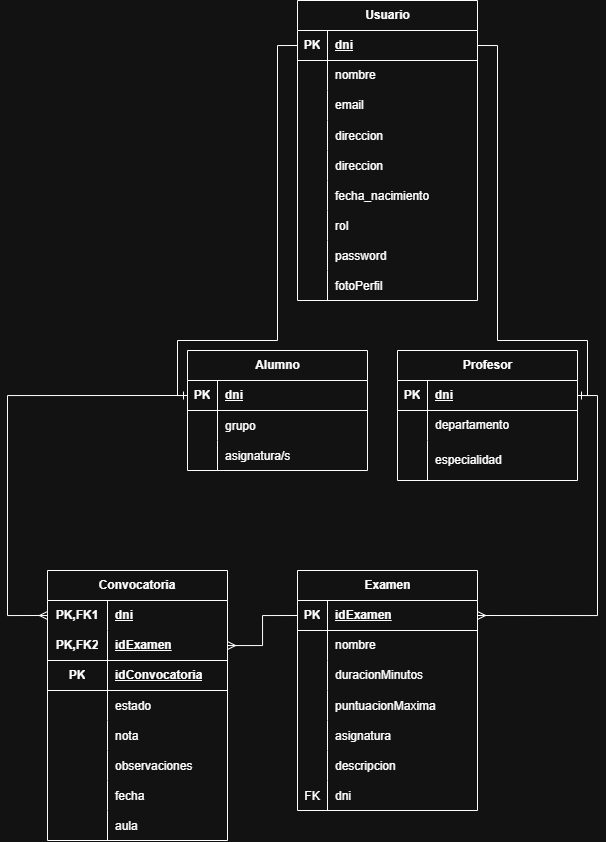
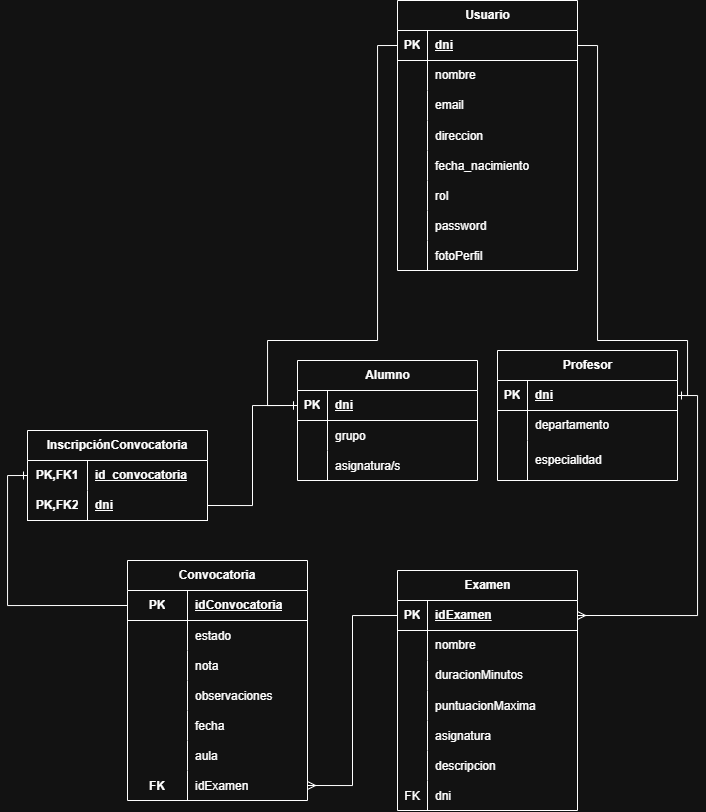
feat (login): desarrollo de la plantilla HTML del login

diff --git a/ExamTrack/src/main/resources/templates/login.html b/ExamTrack/src/main/resources/templates/login.html
@@ -18,67 +18,74 @@
     <link rel="stylesheet" href="https://cdn.jsdelivr.net/npm/bootstrap-icons@1.13.1/font/bootstrap-icons.min.css">
 
     <style>
-        #rojos {
-            background-color: rgb(178, 58, 58);
+        .background {
+            background-image: url("../static/image/background.webp");
+            background-size: cover;
+            background-position: center;
         }
 
-        #banana {
-            background-color: rgb(238, 238, 238);
-            border-top-left-radius: 20%;
-            border-bottom-left-radius: 20%;
+        .bloqueIzqLogin {
+            background-color: rgb(210, 92, 92);
         }
     </style>
+
+
+
 
 </head>
 
 <body>
+    <main class="container-fluid background">
+        <div class="vh-100 w-100 d-flex justify-content-center align-items-center">
+            <div class="w-75 h-75 d-flex rounded-5 overflow-hidden shadow">
+                <div class="container-fluid p-0">
+                    <div class="row h-100 m-0">
 
-    <div class="container-fluid m-0" id="rojos">
-        <div class="d-flex flex-row  row min-vh-100">
-            <div class="col-7 col-xxl-7 col-xl-6 col-md-4 col-sm-4">
-                <h1>Hola</h1>
-            </div>
-
-            <div class="col-5 col-xxl-5 col-xl-6 col-md-8 col-sm-8 z-3 " id="banana">
-                <div class="container">
-                    <div class="d-flex flex-column m-5">
-                        <div class="pt-5 ps-5">
-                            <h1>Login</h1>
+                        <div
+                            class="col-xxl-6 col-md-0 d-flex opacity-75 flex-column justify-content-center px-5  bloqueIzqLogin">
+                            <h2 class="display-3 display-md-4 opacity-100 text-light ">Gestiona tus convocatorias</h2>
+                            <p class="pe-xxl-5 pe-md-2 text-light">ExamTrack nace de la idea de gestionar convocatorias de examenes
+                                de la forma mas
+                                profesional y optimizada posible, con accesibilidad a todos los publicos.</p>
                         </div>
 
-                        <div class="pt-2 ps-5">
-                            <p>¡Bienvenido a Examtrack! Porfavor loguease con su cuenta corporativa. </p>
-                        </div>
+                        <div class="col-xxl-6 col-md-12 bg-white">
+                            <div class="container-fluid h-100">
+                                <div class="row d-flex flex-column h-100">
 
-                        <div class="pt-4 ps-5">
-                            <div>
-                                <form>
-                                    <div class="form-group pb-3 w-75 ">
-                                        <label for="formGroupExampleInput ">Correo Electronico</label>
-                                        <input type="email" class="form-control" id="formGroupExampleInput"
-                                            placeholder="[email redacted]">
-                                    </div>
-                                    <div class="form-group pb-3 w-75">
-                                        <label for="formGroupExampleInput2">Contraseña</label>
-                                        <input type="password" class="form-control" id="formGroupExampleInput2"
-                                            placeholder="Introduce aquí tu contraseña">
+                                    <div class="w-100 d-flex justify-content-center pt-5">
+                                        <h1 class="fw-bold">examTrack</h1>
                                     </div>
 
-                                    <div class="mb-3 form-check">
-                                        <input type="checkbox" class="form-check-input" id="exampleCheck1">
-                                        <label class="form-check-label" for="exampleCheck1">Recuerdame</label>
-                                    </div>
-                                    <button type="submit" class="btn btn-redPrimary w-75">Iniciar Sesión</button>
-                                </form>
+                                    <div
+                                        class="w-100 flex-grow-1 d-flex flex-column justify-content-center align-items-center pb-5">
+                                        <form class="w-75 d-flex flex-column align-items-center pb-5">
+                                            <div class="mb-3 w-75 py-3">
+                                                <label for="exampleInputEmail1"
+                                                    class="form-label col-form-label-lg">Correo Electronico</label>
+                                                <input type="email" class="form-control" id="exampleInputEmail1"
+                                                    aria-describedby="emailHelp">
 
+                                            </div>
+                                            <div class="mb-3 w-75 py-3">
+                                                <label for="exampleInputPassword1"
+                                                    class="form-label col-form-label-lg">Contraseña</label>
+                                                <input type="password" class="form-control" id="exampleInputPassword1">
+                                            </div>
+                                            <button type="submit" class="btn btn-redPrimary w-50 mt-3 text-light">Iniciar
+                                                Sesión</button>
+                                        </form>
+                                    </div>
+
+                                </div>
                             </div>
-
                         </div>
+
                     </div>
                 </div>
-
             </div>
         </div>
+    </main>
 
 </body>
 

diff --git a/ExamTrack/src/main/resources/templates/pagina404.html b/ExamTrack/src/main/resources/templates/pagina404.html
@@ -1,0 +1,59 @@
+<!DOCTYPE html>
+<html lang="en">
+
+<head>
+    <meta charset="UTF-8">
+    <meta name="viewport" content="width=device-width, initial-scale=1.0">
+    <title>Document</title>
+
+    <link href="https://cdn.jsdelivr.net/npm/bootstrap@5.3.8/dist/css/bootstrap.min.css" rel="stylesheet"
+        integrity="sha384-sRIl4kxILFvY47J16cr9ZwB07vP4J8+LH7qKQnuqkuIAvNWLzeN8tE5YBujZqJLB" crossorigin="anonymous">
+
+    <script src="https://cdn.jsdelivr.net/npm/bootstrap@5.3.8/dist/js/bootstrap.bundle.min.js"
+        integrity="sha384-FKyoEForCGlyvwx9Hj09JcYn3nv7wiPVlz7YYwJrWVcXK/BmnVDxM+D2scQbITxI"
+        crossorigin="anonymous"></script>
+
+    <link rel="stylesheet" th:href="@{/css/style.css}">
+
+    <link rel="stylesheet" href="https://cdn.jsdelivr.net/npm/bootstrap-icons@1.13.1/font/bootstrap-icons.min.css">
+</head>
+
+<body>
+    <section class="d-flex align-items-center min-vh-100 py-5">
+        <div class="container py-5">
+            <div class="row align-items-center">
+                <div class="col-md-6 order-md-2">
+                    <div class="lc-block">
+                        <script
+                            src="https://unpkg.com/@lottiefiles/lottie-player@latest/dist/lottie-player.js"></script>
+                        <lottie-player src="https://assets9.lottiefiles.com/packages/lf20_kcsr6fcp.json"
+                            background="transparent" speed="1" loop="" autoplay=""></lottie-player>
+                    </div>
+                </div>
+                <div class="col-md-6 text-center text-md-start ">
+                    <div class="lc-block mb-3">
+                        <div editable="rich">
+
+                        </div>
+                    </div>
+                    <div class="lc-block mb-3">
+                        <div editable="rich">
+                            <h1 class="display-1 fw-bold text-muted">Error 404</h1>
+
+                        </div>
+                    </div>
+                    <div class="lc-block mb-5">
+                        <div editable="rich">
+                            <p class="rfs-11 fw-light"> La página que estabas buscando no existe.</p>
+                        </div>
+                    </div>
+                    <div class="lc-block">
+                        <a class="btn btn-lg btn-secondary" href="#" role="button">Volver al Inicio</a>
+                    </div>
+                </div>
+            </div>
+        </div>
+    </section>
+</body>
+
+</html>

diff --git a/ExamTrack/src/main/resources/static/js/validacion.js b/ExamTrack/src/main/resources/static/js/validacion.js
@@ -1,0 +1,19 @@
+// Example starter JavaScript for disabling form submissions if there are invalid fields
+(() => {
+  'use strict'
+
+  // Fetch all the forms we want to apply custom Bootstrap validation styles to
+  const forms = document.querySelectorAll('.needs-validation')
+
+  // Loop over them and prevent submission
+  Array.from(forms).forEach(form => {
+    form.addEventListener('submit', event => {
+      if (!form.checkValidity()) {
+        event.preventDefault()
+        event.stopPropagation()
+      }
+
+      form.classList.add('was-validated')
+    }, false)
+  })
+})()

diff --git a/ExamTrack/src/main/resources/static/css/style.css b/ExamTrack/src/main/resources/static/css/style.css
@@ -56,6 +56,7 @@ h1,h2,h3,h4,h5,p {
 /* Personalizacion Botones */
 .btn-redPrimary {
     background-color: rgb(178,58,58);
+    font-weight: bold;
 }
 
 .btn-redPrimary:hover {

diff --git a/ExamTrack/src/main/java/com/salesianos/dam/examtrack/controllers/SesionController.java b/ExamTrack/src/main/java/com/salesianos/dam/examtrack/controllers/SesionController.java
@@ -1,0 +1,16 @@
+package com.salesianos.dam.examtrack.controllers;
+
+import org.springframework.stereotype.Controller;
+import org.springframework.ui.Model;
+import org.springframework.web.bind.annotation.GetMapping;
+
+@Controller
+public class SesionController {
+    
+    @GetMapping ("/login")
+    public String loginBase (Model model) {
+        
+        return "login";
+    }
+
+}

diff --git a/ExamTrack/src/main/java/com/salesianos/dam/examtrack/model/Examen.java b/ExamTrack/src/main/java/com/salesianos/dam/examtrack/model/Examen.java
@@ -5,9 +5,12 @@ import java.util.List;
 
 import jakarta.persistence.Column;
 import jakarta.persistence.Entity;
-import jakarta.persistence.FetchType; 
+import jakarta.persistence.FetchType;
+import jakarta.persistence.ForeignKey;
 import jakarta.persistence.GeneratedValue;
 import jakarta.persistence.Id;
+import jakarta.persistence.JoinColumn;
+import jakarta.persistence.ManyToOne;
 import jakarta.persistence.OneToMany;
 import lombok.AllArgsConstructor;
 import lombok.Builder;
@@ -16,16 +19,16 @@ import lombok.EqualsAndHashCode;
 import lombok.NoArgsConstructor;
 import lombok.ToString;
 
+@Entity
 @AllArgsConstructor
 @NoArgsConstructor
 @Data
 @Builder
-@Entity
 public class Examen {
 
     @Id
     @GeneratedValue
-    @Column(nullable = false)
+    @Column(nullable = false) 
     private Long id;
     private String nombre;
 
@@ -41,5 +44,12 @@ public class Examen {
     @EqualsAndHashCode.Exclude
     @Builder.Default
     List <Convocatoria> convocatoria = new ArrayList<>();
+
+    @ManyToOne 
+    @JoinColumn (name="id_examen",
+        foreignKey = @ForeignKey (name = "fk_profesor_examen"))
+    @ToString.Exclude
+    @EqualsAndHashCode.Exclude
+    private Profesor profesor;
 
 }

diff --git a/ExamTrack/src/main/java/com/salesianos/dam/examtrack/model/Profesor.java b/ExamTrack/src/main/java/com/salesianos/dam/examtrack/model/Profesor.java
@@ -1,5 +1,10 @@
 package com.salesianos.dam.examtrack.model;
 
+import java.util.ArrayList;
+import java.util.List;
+
+import jakarta.persistence.FetchType;
+import jakarta.persistence.OneToMany;
 import lombok.AllArgsConstructor;
 import lombok.EqualsAndHashCode;
 import lombok.Getter;
@@ -16,6 +21,11 @@ public class Profesor extends Usuario {
     private String departamento;
     private String especialidad;
     
-    
+
+
+    @OneToMany (mappedBy = "profesor" , fetch = FetchType.EAGER)
+    private List<Examen> examen = new ArrayList<>();
+
+
 
 }

diff --git a/ExamTrack/src/main/java/com/salesianos/dam/examtrack/model/Usuario.java b/ExamTrack/src/main/java/com/salesianos/dam/examtrack/model/Usuario.java
@@ -4,20 +4,23 @@ import java.time.LocalDate;
 
 import jakarta.persistence.Column;
 import jakarta.persistence.Entity;
+import jakarta.persistence.Id;
 import lombok.AllArgsConstructor;
-import lombok.Builder;
 import lombok.Data;
 import lombok.NoArgsConstructor;
 import lombok.ToString;
+import lombok.experimental.SuperBuilder;
 
+@Entity
 @AllArgsConstructor
 @NoArgsConstructor
 @Data
-@Builder
+@SuperBuilder
 @ToString
 public class Usuario {
     
 	@Column (columnDefinition = "unique" , nullable = false)
+    @Id
     private String dni;
 	
     private String nombre;
@@ -32,3 +35,4 @@ public class Usuario {
 
 
 }
+ 

diff --git a/ExamTrack/src/main/java/com/salesianos/dam/examtrack/model/Convocatoria.java b/ExamTrack/src/main/java/com/salesianos/dam/examtrack/model/Convocatoria.java
@@ -14,11 +14,11 @@ import lombok.Builder;
 import lombok.Data;
 import lombok.NoArgsConstructor;
 
+@Entity
 @AllArgsConstructor
 @NoArgsConstructor
 @Data
 @Builder
-@Entity
 public class Convocatoria {
     
     @Id
@@ -38,7 +38,7 @@ public class Convocatoria {
     @JoinColumn (name="id_convocatoria",
         foreignKey = @ForeignKey (name = "fk_convocatoria_examen"))
     private Examen examen;
-
+ 
     /*Metodos Helper */
 
     public void addToExamen (Examen examen) {

diff --git a/ExamTrack/src/main/java/com/salesianos/dam/examtrack/model/Alumno.java b/ExamTrack/src/main/java/com/salesianos/dam/examtrack/model/Alumno.java
@@ -2,6 +2,7 @@ package com.salesianos.dam.examtrack.model;
 
 import java.util.List;
 
+import jakarta.persistence.Entity;
 import lombok.AllArgsConstructor;
 import lombok.EqualsAndHashCode;
 import lombok.Getter;
@@ -19,3 +20,4 @@ public class Alumno extends Usuario {
     private List [] asignaturas;
 
 }
+ 

diff --git a/ExamTrack/src/main/java/com/salesianos/dam/examtrack/repository/ProfesorRepositorio.java b/ExamTrack/src/main/java/com/salesianos/dam/examtrack/repository/ProfesorRepositorio.java
@@ -2,7 +2,7 @@ package com.salesianos.dam.examtrack.repository;
 import org.springframework.data.jpa.repository.JpaRepository;
 import com.salesianos.dam.examtrack.model.Profesor;
 
-public interface ProfesorRepositorio extends JpaRepository<Profesor,Long> {
+public interface ProfesorRepositorio extends JpaRepository<Profesor,String> {
     
 
 }